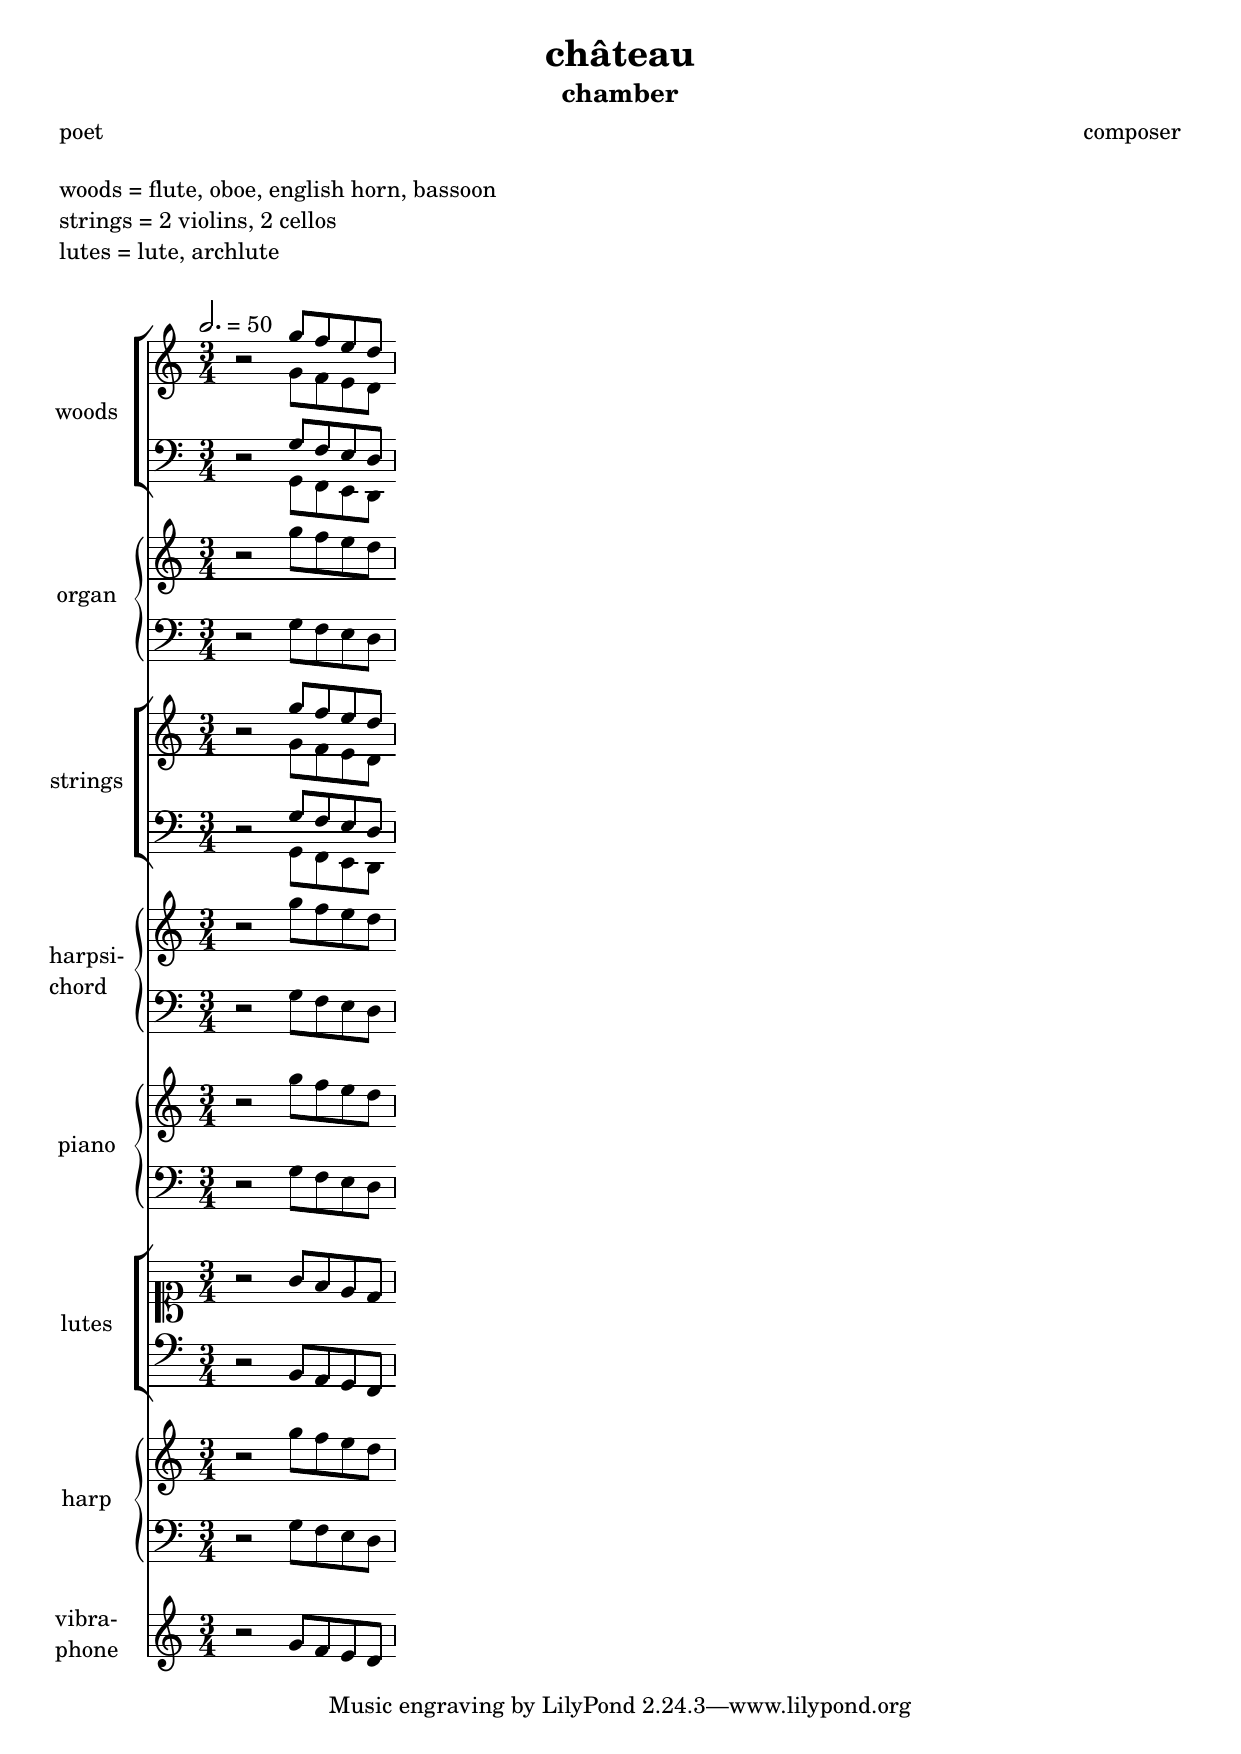
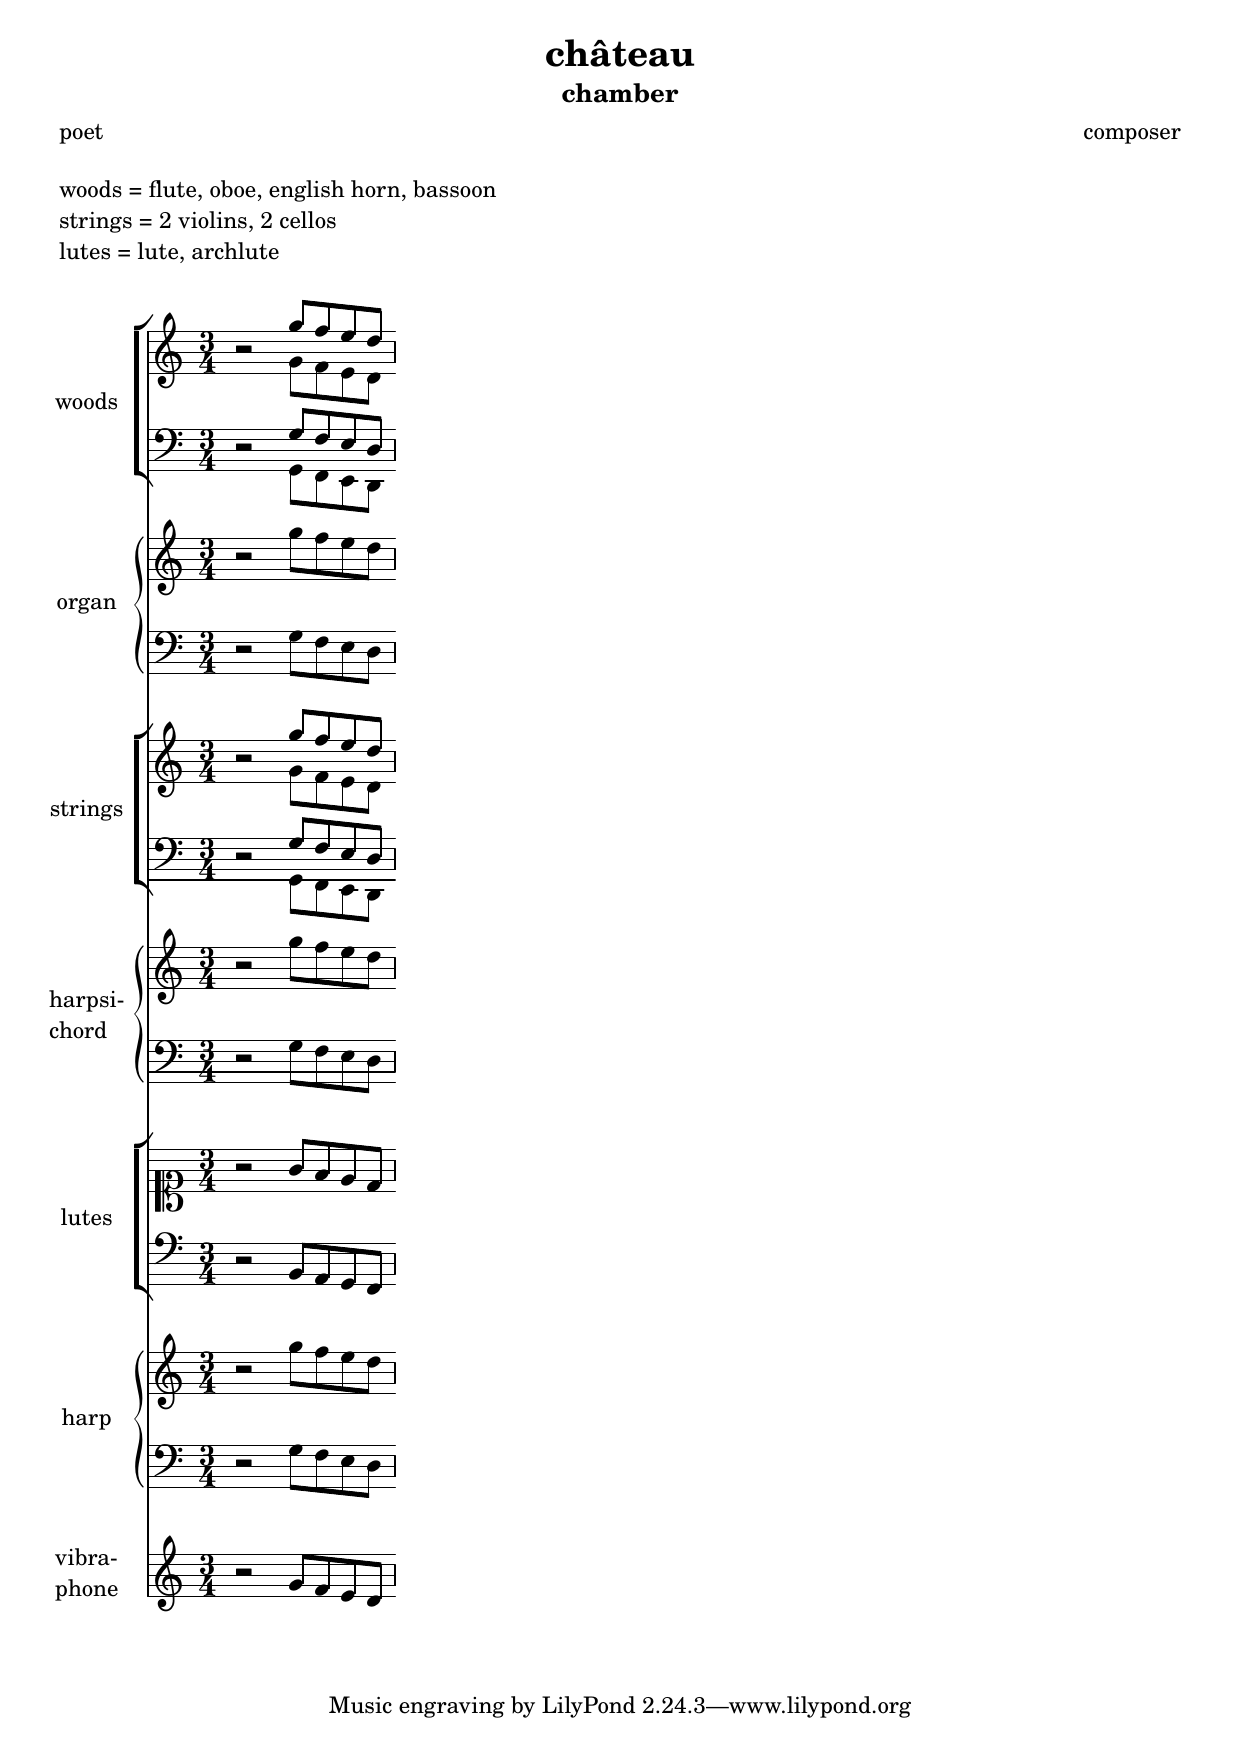
chateau : sax

Changed region(s): [[0.0306, 0.1539, 0.3368, 0.9544], [0.0306, 0.431, 0.0919, 0.4618], [0.0306, 0.2155, 0.0919, 0.2463]]

diff --git a/musica/template/chateau.html b/musica/template/chateau.html
@@ -3,7 +3,7 @@
 "http://www.w3.org/TR/xhtml1/DTD/xhtml1-strict.dtd">
 <html xmlns="http://www.w3.org/1999/xhtml" lang="en" xml:lang="en">
 <head>
-<!-- 2024-01-22 lun 13:16 -->
+<!-- 2024-01-22 lun 17:30 -->
 <meta http-equiv="Content-Type" content="text/html;charset=utf-8" />
 <meta name="viewport" content="width=device-width, initial-scale=1" />
 <title>Eclats de vers : Opus : Musica : template</title>
@@ -205,20 +205,20 @@
 <h2>Table of Contents</h2>
 <div id="text-table-of-contents" role="doc-toc">
 <ul>
-<li><a href="#orgd3dac55">1. Château</a></li>
+<li><a href="#org3b73cec">1. Château</a></li>
 </ul>
 </div>
 </div>
 
-<div id="outline-container-orgd3dac55" class="outline-2">
-<h2 id="orgd3dac55"><span class="section-number-2">1.</span> Château</h2>
+<div id="outline-container-org3b73cec" class="outline-2">
+<h2 id="org3b73cec"><span class="section-number-2">1.</span> Château</h2>
 <div class="outline-text-2" id="text-1">
 <p>
 Le résultat :
 </p>
 
 
-<div id="org9b28e64" class="figure">
+<div id="orgb29b8dc" class="figure">
 <p><img src="../../image/musica/template/chateau.png" alt="chateau.png" />
 </p>
 </div>
@@ -285,7 +285,6 @@ désactivés en commentant la ligne correspondante dans la section "book"
 
 voiceFluteSoprano = \relative c'' {
   \keytime
-  \tempo 2. = 50
   \anacrusis % bar structure 0
 }
 
@@ -302,7 +301,6 @@ voiceFluteAlto = \relative c' {
 
 voiceFlutesBassoonsSoprano = \relative c'' {
   \keytime
-  \tempo 2. = 50
   \anacrusis % bar structure 0
 }
 
@@ -333,7 +331,6 @@ voiceFlutesBassoonsBass = \relative c, {
 
 voiceWoodSoprano = \relative c'' {
   \keytime
-  \tempo 2. = 50
   \anacrusis % bar structure 0
 }
 
@@ -358,18 +355,32 @@ voiceWoodBass = \relative c, {
   \anacrusis % bar structure 0
 }
 
-% organ {{{2
+% saxophones {{{2
 
-% right {{{3
+% soprano {{{3
 
-voiceOrganRight = \relative c'' {
+voiceSaxophoneSoprano = \relative c'' {
   \keytime
   \anacrusis % bar structure 0
 }
 
-% left {{{3
+% alto {{{3
 
-voiceOrganLeft = \relative c {
+voiceSaxophoneAlto = \relative c' {
+  \keytime
+  \anacrusis % bar structure 0
+}
+
+% tenor {{{3
+
+voiceSaxophoneTenor = \relative c {
+  \keytime
+  \anacrusis % bar structure 0
+}
+
+% bass {{{3
+
+voiceSaxophoneBass = \relative c, {
   \keytime
   \anacrusis % bar structure 0
 }
@@ -404,6 +415,22 @@ voiceBrassBass = \relative c, {
   \anacrusis % bar structure 0
 }
 
+% organ {{{2
+
+% right {{{3
+
+voiceOrganRight = \relative c'' {
+  \keytime
+  \anacrusis % bar structure 0
+}
+
+% left {{{3
+
+voiceOrganLeft = \relative c {
+  \keytime
+  \anacrusis % bar structure 0
+}
+
 % strings {{{2
 
 % soprano {{{3
@@ -411,6 +438,7 @@ voiceBrassBass = \relative c, {
 voiceStringSoprano = \relative c'' {
   \keytime
   \anacrusis % bar structure 0
+  \tempo 2. = 50
 }
 
 % alto {{{3
@@ -598,6 +626,28 @@ instrumentWoods = \new StaffGroup \with {
        midiMaximumVolume = #1.5
      } { \voiceTwo \voiceWoodBass }
   &gt;&gt;
+&gt;&gt;
+
+% saxophones {{{2
+
+instrumentSaxophones = \new StaffGroup \with {
+  instrumentName = "saxophones"
+  shortInstrumentName = "sax"
+} &lt;&lt;
+  \new Staff = "treble" \with {
+    midiInstrument = "alto sax"
+    midiMinimumVolume = #1.0
+    midiMaximumVolume = #1.5
+  } { % \clef french
+      \clef treble
+      &lt;&lt; \voiceSaxophoneSoprano \\ \voiceSaxophoneAlto &gt;&gt; }
+  \new Staff = "bass" \with {
+    midiInstrument = "baritone sax"
+    midiMinimumVolume = #1.0
+    midiMaximumVolume = #1.5
+  } { % \clef varbaritone
+      \clef bass
+      &lt;&lt; \voiceSaxophoneTenor \\ \voiceSaxophoneBass &gt;&gt; }
 &gt;&gt;
 
 % brass {{{2
@@ -807,6 +857,7 @@ instrumentDrums = \new DrumStaff \with {
     %\line { brass = 2 trumpets, 2 french horns }
     \line { strings = 2 violins, 2 cellos }
     \line { lutes = lute, archlute }
+    %\line { guitars = guitar, bass guitar }
     \vspace #1
   }
   \score {
@@ -814,11 +865,12 @@ instrumentDrums = \new DrumStaff \with {
       %\instrumentFlutes
       %\instrumentFlutesBassoons
       \instrumentWoods
+      %\instrumentSaxophones
       \instrumentOrgan
       %\instrumentBrass
       \instrumentStrings
       \instrumentHarpsichord
-      \instrumentPiano
+      %\instrumentPiano
       \instrumentLutes
       %\instrumentGuitars
       \instrumentHarp
@@ -853,7 +905,7 @@ instrumentDrums = \new DrumStaff \with {
 </div>
 <div id="postamble" class="status">
 <p class="author">Author: chimay</p>
-<p class="date">Created: 2024-01-22 lun 13:16</p>
+<p class="date">Created: 2024-01-22 lun 17:30</p>
 <p class="validation"><a href="https://validator.w3.org/check?uri=referer">Validate</a></p>
 </div>
 </body>
